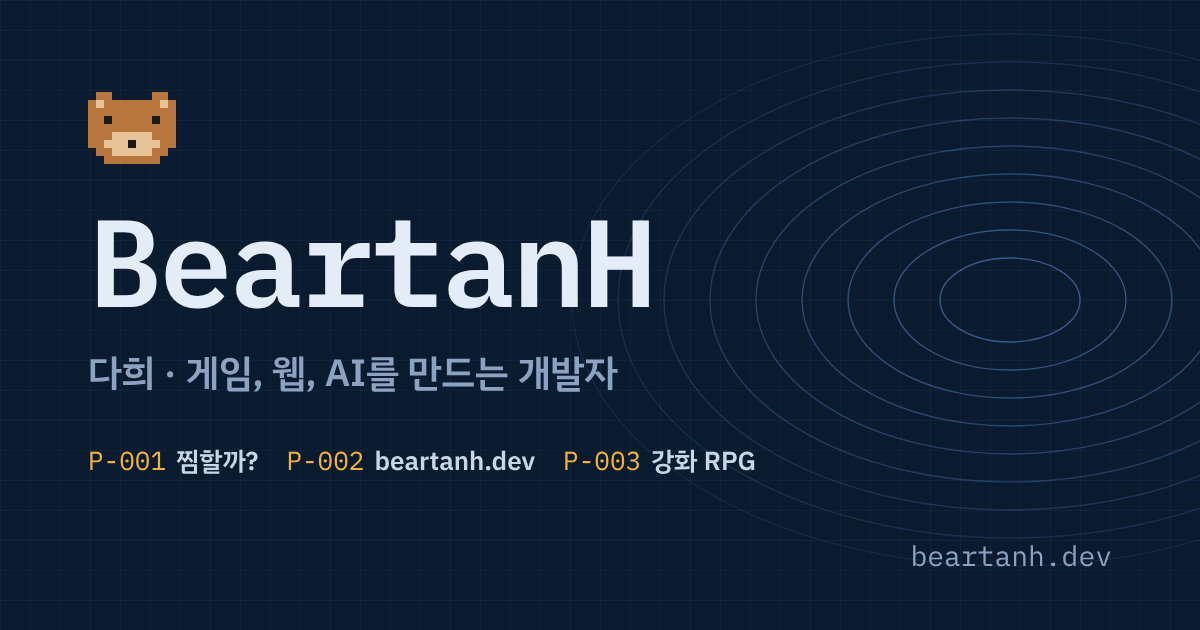
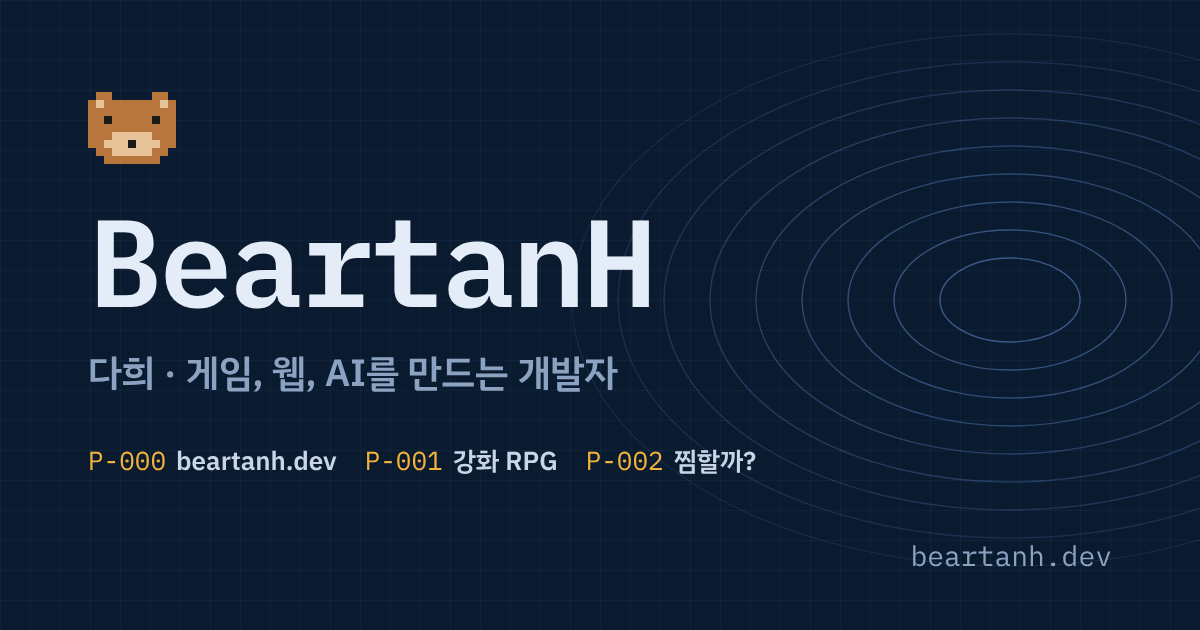
Number archive entries in build order (P-000 to P-002)
P-000 beartanh.dev, P-001 강화 RPG, P-002 찜할까?. The empty slot now
takes the number after the last entry, and og.png lists the new order.

Claude-Session: https://claude.ai/code/session_01XpM5piKpBoFBnWmEnEQeDS

Changed region(s): [[0.1233, 0.6937, 0.6475, 0.754]]

diff --git a/src/data/projects.ts b/src/data/projects.ts
@@ -1,10 +1,10 @@
 // 아카이브에 보이는 프로젝트 목록.
-// 새 프로젝트는 배열 끝에 추가하면 번호 순서대로 표시돼요.
+// 개발한 순서대로 번호를 매기고, 새 프로젝트는 배열 끝에 추가하면 돼요.
 
 export type ProjectStatus = 'live' | 'wip' | 'archived';
 
 export interface Project {
-  /** 아카이브 번호. P-001부터 순서대로 */
+  /** 아카이브 번호. P-000부터 순서대로 */
   id: string;
   title: string;
   /** 시작 또는 공개 시점. "2026" 또는 "2026.10" */
@@ -18,17 +18,7 @@ export interface Project {
 
 export const projects: Project[] = [
   {
-    id: 'P-001',
-    title: '찜할까?',
-    date: '2026.10',
-    status: 'live',
-    summary:
-      '스팀에서는 한국어 리뷰만 골라 보거나 다른 언어 리뷰를 원문으로 읽어야 해요. 인기 게임의 여러 언어 리뷰를 모아 한국어로 요약해 주는 서비스예요.',
-    stack: ['Cloudflare Workers', 'Claude API'],
-    url: 'https://jjimhalkka.beartanh.dev/'
-  },
-  {
-    id: 'P-002',
+    id: 'P-000',
     title: 'beartanh.dev',
     date: '2026.10',
     status: 'live',
@@ -36,7 +26,7 @@ export const projects: Project[] = [
     stack: ['React', 'Vite', 'React Bits', 'Cloudflare Workers']
   },
   {
-    id: 'P-003',
+    id: 'P-001',
     title: '강화 RPG',
     date: '2026.08',
     status: 'live',
@@ -44,8 +34,24 @@ export const projects: Project[] = [
       '친구들 단톡방 봇으로 시작한 확률 강화 웹게임이에요. 무기를 강화하다 깨지면 처음부터 다시 하고, 파티 레이드·채굴·랭킹으로 같이 놀아요.',
     stack: ['Node.js', 'Supabase', 'Vercel'],
     url: 'https://gganghwa.beartanh.dev/'
+  },
+  {
+    id: 'P-002',
+    title: '찜할까?',
+    date: '2026.10',
+    status: 'live',
+    summary:
+      '스팀에서는 한국어 리뷰만 골라 보거나 다른 언어 리뷰를 원문으로 읽어야 해요. 인기 게임의 여러 언어 리뷰를 모아 한국어로 요약해 주는 서비스예요.',
+    stack: ['Cloudflare Workers', 'Claude API'],
+    url: 'https://jjimhalkka.beartanh.dev/'
   }
 ];
+
+/** 다음 빈 슬롯 번호 (마지막 번호 + 1) */
+export const nextProjectId = (() => {
+  const last = Math.max(-1, ...projects.map(p => Number(p.id.replace(/\D/g, '')) || 0));
+  return `P-${String(last + 1).padStart(3, '0')}`;
+})();
 
 export const statusLabel: Record<ProjectStatus, string> = {
   live: '운영 중',

diff --git a/src/App.tsx b/src/App.tsx
@@ -2,7 +2,7 @@ import type { CSSProperties } from 'react';
 import Topography from './components/reactbits/Topography/Topography';
 import DecryptedText from './components/reactbits/DecryptedText/DecryptedText';
 import SpotlightCard from './components/reactbits/SpotlightCard/SpotlightCard';
-import { projects, statusLabel, type Project } from './data/projects';
+import { nextProjectId, projects, statusLabel, type Project } from './data/projects';
 
 const SCRAMBLE = '01<>/{}[]#$%&*+=';
 
@@ -77,7 +77,7 @@ function Entry({ project }: { project: Project }) {
 }
 
 export default function App() {
-  const nextId = `P-${String(projects.length + 1).padStart(3, '0')}`;
+  const nextId = nextProjectId;
 
   return (
     <>
